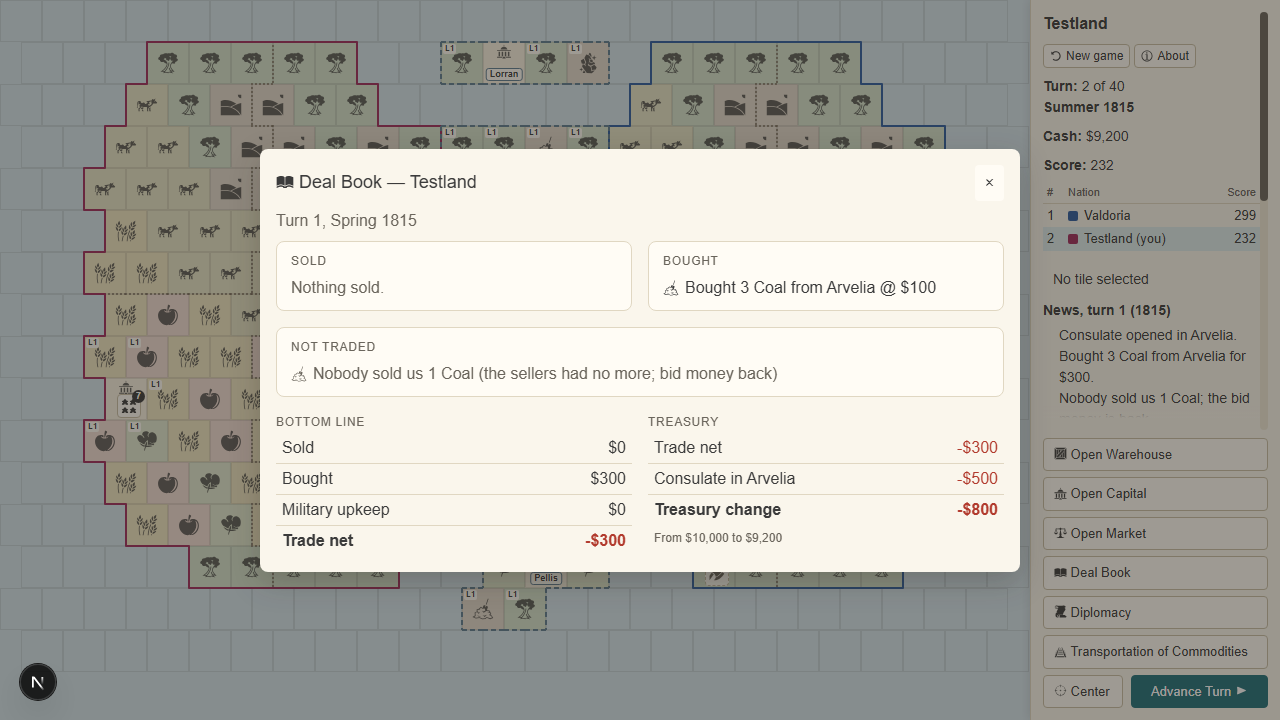
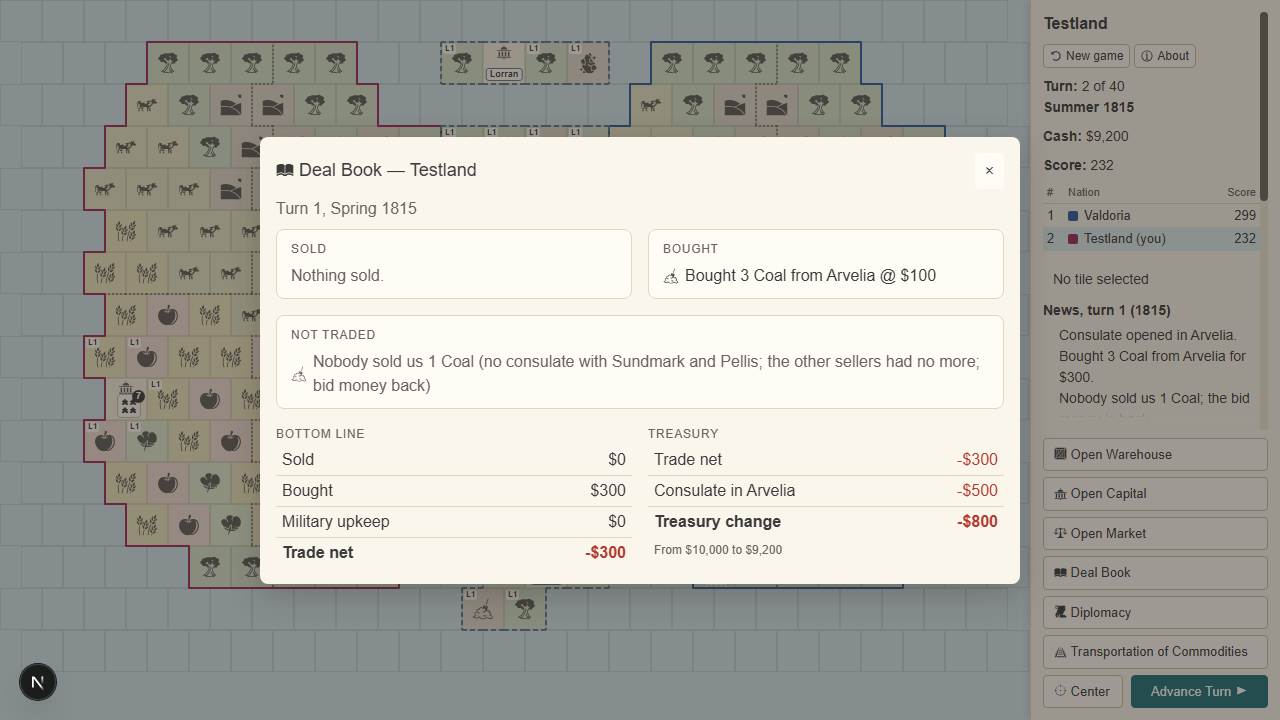
docs(m7): QA fix round review: FR-259, guard note on FR-258, card Q47 (World market stepper), journal entry with evidence, Deal Book screenshot retaken
The journal's M7 engine half and UI half entries move unchanged to docs/journal/archive-M7.md
(the journal stays under 400 lines).

Changed region(s): [[0.1875, 0.1833, 0.8125, 0.825], [0.75, 0.6111, 0.7812, 0.7333]]

diff --git a/docs/journal.md b/docs/journal.md
@@ -19,8 +19,9 @@
 - 2026-11-13 M6 Diplomacy (FR-161 to FR-181, FR-236 to FR-241) merged (PR 24, main 2a60a3b; entries archived in
   `docs/journal/archive-M6.md`). Decision card "who receives a grant" (M6 fix round decision 3) still to add.
 - 2026-11-13 M7 Nation-to-nation trade in progress on `claude/m7-trade` (worktree `imperialism-game-revival-fee36d`):
-  engine half, UI half, review fix round and QA fix round done (FR-183 to FR-198 and FR-242 to FR-258 tested; FR-182, 190,
-  192, 193, 196 replaced); not pushed. Next: the re-review of the fix rounds' delta, then the PR. Cards Q39 to Q46 on the page.
+  engine half, UI half, review fix round, QA fix round and its review's fixes done (FR-183 to FR-198 and FR-242 to FR-259
+  tested; FR-182, 190, 192, 193, 196 replaced); not pushed. Next: the PR. Cards Q39 to Q47 on the page (Q47 open: the World
+  market's greyed "−").
 
 Carried forward:
 - Deferred: river ports and the depot-on-port rule (rules 04); University fees; the power plant.
@@ -165,117 +166,11 @@ trade policies, the scripted answers and peace offers; the Diplomacy screen in t
 FR-161 to FR-181 and FR-236 to FR-241 tested; 1283 unit tests, Playwright 30 passed, 1 skipped; every v1 baseline unchanged.
 Merged as PR 24 (main 2a60a3b). Open: the decision card "who receives a grant" (review fix round decision 3).
 
-## 2026-11-13 M7 Nation-to-nation trade, engine half (FR-182 to FR-193, FR-196, FR-198)
+## 2026-11-13 M7 Nation-to-nation trade, engine half and UI half (archived)
 
-Size: L (engine-wide: the trade phase, the market state, the scripted player). One engine agent (Opus 5.5, xhigh, no
-subagents, no advisor call), started by the M7 workflow. Branch `claude/m7-trade` from main 2a60a3b (worktree
-`imperialism-game-revival-fee36d`), not pushed. The UI agent builds FR-194, FR-195 and FR-197 next, on the API below.
-
-Plan-lite:
-- Change: `market.mode` "partners" on the continent (`newGame({ market })` overrides); `tradeSystem` dispatches to
-  `market/partnerTrade.ts` (offers, demand, ranking, barriers, holds, reserve-first payment, relation points, deal events);
-  the scripted player orders consulates and caps its trade by its partner minors (`ai/partnerTrade.ts`).
-- Consumers: the Board of Trade and Deal Book screens (FR-194, FR-195), the store (`startNewGame({ market })`), M8 (upkeep
-  in the bottom line), M9 (war stops trade already).
-- Tests: FR-182 to FR-192 `engine/partnerMarket.test.ts` (55 rows, every FR example as a row); FR-192 lines
-  `ui/dealBookView.test.ts`; FR-193 `engine/scriptedTrade.test.ts`; FR-196 `engine/v2Trade40.test.ts`; FR-198 the
-  FR-157/FR-158 games in `engine/continentScore.test.ts` name `market: "world"`, assertions unchanged.
-- Verify: `npm test`, `npm run lint`, `npx tsc --noEmit`, `npm run build`.
-- Objection: decision 4 below: with FR-193 as written the computer never buys from a minor, so all deals are its goods
-  sales and the minors' raw offers only push raw prices down.
-
-API for the UI half (`@/engine` unless named): `marketModeOf(state)`; `boardOfTrade(state, nationId)` = rows in
-`BOARD_ORDER` `{ commodity, price, available, bid, offer, sellers: [{ minorId, units, favouriteId?, barrier? }], buyers }`;
-`tradeBarrier(state, nationId, countryId)` = "no-consulate" | "at-war" | "boycott" | "not-a-partner" | undefined (a
-consulate ordered this turn counts); `favouritePartner`, `partnerRanking`, `minorOffers`, `minorDemand`; `tradeCapacityOf`
-for "Holds: 3 of 4 free"; `dealBook(events, nationId)` = `{ sold, bought, bottomLine }` from the store's
-`eventLog.at(-1).events`; `dealBookView(book, nameOf)` in `components/market/dealBookView.ts` = the ledger lines and
-`empty`; `eventText` reads `offer-missed`, `offer-unsold` and a deal's counterparty.
-
-Decisions (defaults, nobody to ask):
-1. A "world" market has no `mode` key (`marketModeOf` reads it as "world"), so the v1 market object and FR-060's
-   assertion stay as they are. Objection: FR-182's wording says `state.market.mode` is "world".
-2. FR-157, FR-174 and FR-181 continent tests name `market: "world"` (setup lines only): their subject is the M5 seams or
-   peace, and in "partners" the scripted player also orders consulates. Objection: FR-157 no longer runs the partners
-   continent with nation 1 idle; FR-196 runs it with both nations scripted.
-3. FR-192: the engine's `dealBook` returns data; the words ("Sold 1 Clothing to Arvelia @ $810") come from
-   `dealBookView`, beside `commodityName`. Objection: FR-192 names `dealBook` as returning the lines.
-4. FR-193 (b) kept as written: FR-128 bids lumber and steel, no minor offers either, so the computer never bids in
-   "partners". Measured effect: goods prices climb about 3% a turn (24 units of minor demand unfilled each turn, clothing
-   952 on turn 3 to 1,902 on turn 29) toward the 250% ceiling, raw prices fall toward the 50% floor. Card for the
-   orchestrator: let the computer bid for the raw coal, iron ore and timber its mills use, or damp FR-190.
-5. FR-186: an offer reaches each Great Power as one sheet (Imp1's offer sheet): it takes what its bid, holds and money
-   allow, the rest passes on, and `offer-missed` counts min(units left, its bid) minus what it took.
-6. FR-189: a bid's unused reserve is refunded right after its commodity settles; sales earlier in the phase pay later
-   purchases. FR-191: a Great Power pair gains while either holds an embassy with the other.
-7. FR-193 (c): "what those minors still demand" is their whole demand this turn (the rival's offers are not read).
-
-| Claim | Command | Result (quoted) |
-|---|---|---|
-| Red (API stubs, tests first) | `npx vitest run tests/engine/partnerMarket.test.ts tests/engine/scriptedTrade.test.ts tests/engine/v2Trade40.test.ts tests/ui/dealBookView.test.ts` | `Test Files 4 failed (4)`, `Tests 61 failed \| 15 passed (76)` (e.g. `expected undefined to be 'partners'`, `expected [ {}, {}, {}, {} ] to deeply equal ...`; the 15 are guards: v1 world trade, order-time check, frozen input, determinism) |
-| FR-182 to FR-193, FR-196 green | same command | `Test Files 4 passed (4)`, `Tests 76 passed (76)` |
-| First commit (0a1c613) alone | `npm test`, `npx tsc --noEmit` with the FR-193 files set aside | `Test Files 77 passed (77)`, `Tests 1342 passed (1342)`; exit 0 |
-| Unit tests | `npm test` | `Test Files 79 passed (79)`, `Tests 1359 passed (1359)` (+76 on 1283), 0 act warnings |
-| FR-198, FR-159 v1 baselines | `npm test` console | `FR-125 seed 1: t15 616/390 (1.58) ... t40 1493/650 (2.30)`, `FR-157 nation 2 score at turn 40: [[1,1493],[2,1496],[3,1490],[4,1476]]`, as in M6 |
-| FR-196 v2 trade baseline | `npm test` console | `"consulateBy":{"nation-1":1,"nation-2":1},"minorDeals":{"nation-1":21,"nation-2":21}` on every seed; treasuries `17674`, `17021`, `16607`, `19737` (both nations) |
-| Lint | `npm run lint` | `✖ 3 problems (0 errors, 3 warnings)` (the three of M6) |
-| Types | `npx tsc --noEmit` | exit 0, no output |
-| Build | `npm run build` | `✓ Compiled successfully in 3.5s`, `✓ Generating static pages (4/4)` |
-
-Not run here: Playwright. For the UI half: `e2e/market-and-game-over.spec.ts` (FR-078) sells 1 lumber on the default
-(continent) game and expects "Sold 1 Lumber for $300."; in "partners" nobody buys lumber, so that spec, and the market
-dialog names in `e2e/m4-1.spec.ts`, `e2e/look.spec.ts` and `e2e/m6-dialogs.spec.ts`, change with FR-194.
-
-## 2026-11-13 M7 Nation-to-nation trade, UI half (FR-194, FR-195, FR-197)
-
-Size: M (screens on the engine half's API). One UI agent (Opus 5.5, xhigh, no subagents, no advisor call), started by the
-M7 workflow. Branch `claude/m7-trade` (worktree `imperialism-game-revival-fee36d`), not pushed.
-
-Plan-lite:
-- Change: in "partners" `MarketModal` renders the Board of Trade (`components/market/BoardOfTrade.tsx` on `boardView.ts`);
-  a "Deal Book" HUD button opens `DealBookModal.tsx` (store flag `isDealBookOpen`, reset by New game); `Stepper.tsx` is the
-  "− n +" of both market dialogs; icon `dealBook` (GiOpenBook). The v1 World market is the same component body as before.
-- Consumers: the player; M8 fills Military upkeep in the Deal Book's bottom line (`dealBook` gives 0 now).
-- Tests: FR-194 `tests/ui/boardOfTrade.test.tsx` (17 rows: name, order, Price/Available/Bid/Offer, Sellers and Buyers with
-  favourite and marks, the FR example "Arvelia 3, favours Valdoria", a consulate ordered this turn lifts the mark, holds,
-  bids, a row with a bid has no offer control, the 4-bid refusal, "world" unchanged); FR-195 `tests/ui/dealBook.test.tsx`
-  (7 rows, one of them FR-197's flow in the store); FR-197 `e2e/m7-trade.spec.ts` (with the FR-194 fit at 1280x720);
-  FR-236 `tests/ui/dialogs.test.tsx` lists both new dialogs; FR-022 scan covers the three screens.
-- Verify: `npm test`, `npm run lint`, `npx tsc --noEmit`, `npm run build`, `PORT=3160 npx playwright test --workers=1`.
-- Objection: decision 3 (FR-078's e2e reads the sale's income from the news, no fixed price any more).
-
-Decisions (defaults, nobody to ask):
-1. Dialog names follow FR-236's title convention: "Board of Trade — Testland", "Deal Book — Testland" (Playwright matches
-   "Board of Trade" as a part of the name). Objection: FR-194/195 say "named Board of Trade"; an exact match needs the suffix.
-2. The FR-197 spec is `e2e/m7-trade.spec.ts`, the name FR-197 gives (the workflow task said `e2e/m7.spec.ts`).
-3. FR-078's e2e (`market-and-game-over.spec.ts`): in "partners" nobody buys lumber and a minor buys only goods from a Great
-   Power with a consulate there, so it now orders a consulate with Pellis and 1 furniture on turn 1 (Valdoria reaches Pellis
-   only on turn 4), offers the furniture on turn 2 and checks cash = before + the income in "Sold 1 Furniture to Pellis for
-   $…". The 40-turn game-over test is unchanged. `look`, `m4-1` and `m6-dialogs` only change the dialog name (and
-   `m6-dialogs` adds the Deal Book to its FR-236 loop).
-4. "A row with a bid has no offer": the other side's stepper is not shown (the engine refuses it anyway). The 4-bid limit and
-   other refusals show as in v1, in the dialog's alert ("Purchase refused: over the limit."). Objection: M6's pattern disables
-   a refused control with its reason; here a fifth bid can still be pressed.
-5. Layout: a fixed frame (at most the window less 16 px); on a new game all 17 rows show at 1280x720 (rows 27 px, chips on two
-   lines where 3 or 4 minors trade); when it grows (a refusal, more chips) only the board scrolls, under a sticky head. The
-   margin at 720 px is about 10 px. Barrier chips are outlined (dashed) with the reason in words in the danger colour.
-6. The Deal Book shows "No deals last turn." also before the first End Turn; it names the turn it shows ("Turn 1, Spring
-   1815"); an empty page says "Nothing sold." / "Nothing bought."; a negative Net is red and reads "-$200".
-7. The Deal Book is a full-width HUD action under Open Market; the HUD's scroll area is about 36 px shorter (FR-235 holds).
-
-| Claim | Command | Result (quoted) |
-|---|---|---|
-| Red (stubs for `boardView` and `DealBookModal`) | `npx vitest run tests/ui/boardOfTrade.test.tsx tests/ui/dealBook.test.tsx tests/ui/dialogs.test.tsx tests/ui/icons.test.tsx tests/ui/uiWritesOnlyOrders.test.ts` | `Test Files 5 failed (5)`, `Tests 36 failed \| 50 passed (86)` (`Unable to find an accessible element with the role "dialog" and name "Board of Trade — Testland"` x20, `... "Deal Book — Testland"` x5, `... name /^Deal Book$/` x5) |
-| FR-194, FR-195 green | same files plus `marketDialog`, `commodityIcons` | `Test Files 7 passed (7)`, `Tests 105 passed (105)` |
-| Unit tests | `npm test` | `Test Files 81 passed (81)`, `Tests 1389 passed (1389)` (+30 on 1359), no act warning |
-| v1 and v2 baselines unchanged | `npm test` console | `FR-125 seed 1: t15 616/390 (1.58) ... t40 1493/650 (2.30)`, `FR-157 nation 2 score at turn 40: [[1,1493],[2,1496],[3,1490],[4,1476]]`, FR-196 `"minorDeals":{"nation-1":21,"nation-2":21}`, treasuries 17674, 17021, 16607, 19737 |
-| FR-197, FR-194 fit, FR-078, all e2e | `PORT=3160 npx playwright test --workers=1 --reporter=line` | `32 passed (1.5m)`, `1 skipped` (the old skip) |
-| Lint | `npm run lint` | `✖ 3 problems (0 errors, 3 warnings)` (the three of M6) |
-| Types | `npx tsc --noEmit` | exit 0, no output |
-| Build | `npm run build` | `✓ Compiled successfully in 3.3s`, `✓ Generating static pages (4/4)` |
-
-In the app: New game, Open Market (the Board of Trade), Diplomacy → Arvelia → Consulate, the coal row's "Arvelia 3, favours
-Testland" loses "(no consulate)"; bid 2 coal, Advance Turn, then the HUD's Deal Book: "Bought 2 Coal from Arvelia @ $100".
+Entries in `docs/journal/archive-M7.md`: the engine half (FR-182 to FR-193, FR-196, FR-198: the partners trade phase, the
+scripted player, the API for the screens, 7 decisions) and the UI half (FR-194, FR-195, FR-197: the Board of Trade, the Deal
+Book, 7 decisions); 1389 unit tests, Playwright 32 passed, 1 skipped. The fix rounds below stay here until M7 is merged.
 
 ## 2026-11-13 M7 Nation-to-nation trade, review fix round (FR-242 to FR-250)
 
@@ -394,3 +289,42 @@ Decisions (defaults, nobody to ask):
 Carried: the news lines carry no cause; "Other" lumps building, prospecting, development, training and gold; FR-246's carry
 holds for FR-252. In the app: New game, Open Market: each grey "+" says why; consulate with Arvelia, bid 4 coal, End Turn: the
 Deal Book's Not traded "Nobody sold us 1 Coal (the sellers had no more; bid money back)", Treasury "Consulate in Arvelia -$500".
+
+### Review of the QA fix round (FR-259)
+
+Size: S. One fix agent (Opus 5.5, xhigh, no subagents, no advisor call), M7 workflow; not pushed. The review (one reviewer) confirmed
+items 1 to 8 and gave 3 minor findings.
+
+| Finding | What changed | Test |
+|---|---|---|
+| F1 "the sellers had no more" while Sundmark and Pellis (no consulate) still had 1 coal each | FR-259: on "served-first" and "used-up" the cause also carries `barred`, the barred counterparties that still had units nobody took; the Deal Book names them first | partnerMarket (2 rows now check `barred`), partnerOrders (2 changed, 2 new), dealBookView (1) |
+| F2 the FR-258 guard missed TileInfoPanel's three hand-made "$" before 4d62a0b | the guard reads each file's syntax tree (`tests/ui/dollarScan.ts`, the `typescript` package): "$" before a template's or JSX's interpolation, "$" + …, toLocaleString, NumberFormat | money (1 new: 10 lines it must find, the 3 TileInfoPanel lines verbatim; 6 it must not) |
+| F3 the World market keeps a greyed "−" at 0 with no reason | none: FR-257 scopes QA item 7 to the Board and FR-074 (with its test) pins the v1 stepper; card Q47 asks | none |
+
+Decisions (defaults, nobody to ask):
+1. F1: a barred counterparty is named only while it still had units nobody took; one whose units all went to a rival is not (a
+   consulate there would not have served us).
+2. F1: the barred part first, then "the other sellers had no more", instead of the review's "Arvelia had no more; no consulate with
+   …": the cause needs no list of the open sellers, and with nothing barred the line stays "the sellers had no more".
+3. F2: a syntax-tree scan, not a longer regex: a regex cannot tell JSX's "Cost: ${cost}" from a template's "${…}".
+4. F3: not changed here: it changes a v1 requirement (FR-074) and its test, so Q47 asks first (one line in MarketModal.tsx).
+
+Carried: the Board lets a bid exceed the units open to the nation (FR-252 passes while one seller is open: 4 coal with only
+Arvelia's 3); the reason shows only in the Deal Book after End Turn. A line "3 units open to us" would take row height that the
+FR-194 fit at 1280x720 does not have. F3: card Q47.
+
+| Claim | Command | Result (quoted) |
+|---|---|---|
+| Red F1 | `npx vitest run tests/engine/partnerMarket.test.ts tests/engine/partnerOrders.test.ts tests/ui/dealBookView.test.ts` | `Test Files 3 failed (3)`, `Tests 7 failed \| 94 passed (101)` (e.g. `expected 'the sellers had no more' to be 'no consulate with Sundmark and Pellis…'`) |
+| Red F2 | `npx vitest run tests/ui/money.test.tsx`, the scan stubbed with the old regex | `Tests 1 failed \| 3 passed (4)`: the line ``const title = `Cost: $${PROSPECT_COST}`;`` gave `found: false` |
+| F2 on the source before 4d62a0b | `.gate/f2-probe` on `git show 4d62a0b~1:src/app/components/TileInfoPanel.tsx` | `old regex: false AST scan: ["81: template \"$${…}\"","101: …","105: …"]` |
+| Unit tests | `npm test` | `Test Files 83 passed (83)`, `Tests 1458 passed (1458)` (+4 on 1454) |
+| Baselines unchanged | `npm test` console | `FR-125 seed 1: … t40 1493/650 (2.30)`, `FR-157 … [[1,1493],[2,1496],[3,1490],[4,1476]]`, FR-247 seed 1 `"minorDeals":[59,53]` |
+| Lint | `npm run lint` | `✖ 3 problems (0 errors, 3 warnings)` (the three of M6) |
+| Types | `npx tsc --noEmit` | exit 0, no output |
+| Build | `npm run build` | `✓ Compiled successfully in 5.2s`, `✓ Generating static pages (4/4)` |
+| All e2e | `PORT=3160 npx playwright test --workers=1 --reporter=line` | `32 passed (1.8m)`, `1 skipped` (the old skip) |
+| Screenshot retaken | `node .gate/qa-shots-f1.mjs` (the QA round's script; the board shot kept) | `m7-qa-fix-deal-book.png`: `Nobody sold us 1 Coal (no consulate with Sundmark and Pellis; the other sellers had no more; bid money back)`, `errors []` |
+
+In the app: New game, Diplomacy → Arvelia → Consulate, Open Market, bid 4 coal, End Turn, Deal Book: Not traded reads "Nobody sold
+us 1 Coal (no consulate with Sundmark and Pellis; the other sellers had no more; bid money back)".

diff --git a/docs/journal/archive-M7.md b/docs/journal/archive-M7.md
@@ -1,0 +1,117 @@
+# Journal archive: M7 Nation-to-nation trade
+
+Moved from `docs/journal.md` on 2026-11-13 during M7 (FLOW: the journal stays under 400 lines; the review of the QA
+fix round needed room before the milestone ends). The two finished entries, the engine half and the UI half, are
+unchanged; the review fix round, the QA fix round and what follows stay in the journal until M7 is merged.
+
+## 2026-11-13 M7 Nation-to-nation trade, engine half (FR-182 to FR-193, FR-196, FR-198)
+
+Size: L (engine-wide: the trade phase, the market state, the scripted player). One engine agent (Opus 5.5, xhigh, no
+subagents, no advisor call), started by the M7 workflow. Branch `claude/m7-trade` from main 2a60a3b (worktree
+`imperialism-game-revival-fee36d`), not pushed. The UI agent builds FR-194, FR-195 and FR-197 next, on the API below.
+
+Plan-lite:
+- Change: `market.mode` "partners" on the continent (`newGame({ market })` overrides); `tradeSystem` dispatches to
+  `market/partnerTrade.ts` (offers, demand, ranking, barriers, holds, reserve-first payment, relation points, deal events);
+  the scripted player orders consulates and caps its trade by its partner minors (`ai/partnerTrade.ts`).
+- Consumers: the Board of Trade and Deal Book screens (FR-194, FR-195), the store (`startNewGame({ market })`), M8 (upkeep
+  in the bottom line), M9 (war stops trade already).
+- Tests: FR-182 to FR-192 `engine/partnerMarket.test.ts` (55 rows, every FR example as a row); FR-192 lines
+  `ui/dealBookView.test.ts`; FR-193 `engine/scriptedTrade.test.ts`; FR-196 `engine/v2Trade40.test.ts`; FR-198 the
+  FR-157/FR-158 games in `engine/continentScore.test.ts` name `market: "world"`, assertions unchanged.
+- Verify: `npm test`, `npm run lint`, `npx tsc --noEmit`, `npm run build`.
+- Objection: decision 4 below: with FR-193 as written the computer never buys from a minor, so all deals are its goods
+  sales and the minors' raw offers only push raw prices down.
+
+API for the UI half (`@/engine` unless named): `marketModeOf(state)`; `boardOfTrade(state, nationId)` = rows in
+`BOARD_ORDER` `{ commodity, price, available, bid, offer, sellers: [{ minorId, units, favouriteId?, barrier? }], buyers }`;
+`tradeBarrier(state, nationId, countryId)` = "no-consulate" | "at-war" | "boycott" | "not-a-partner" | undefined (a
+consulate ordered this turn counts); `favouritePartner`, `partnerRanking`, `minorOffers`, `minorDemand`; `tradeCapacityOf`
+for "Holds: 3 of 4 free"; `dealBook(events, nationId)` = `{ sold, bought, bottomLine }` from the store's
+`eventLog.at(-1).events`; `dealBookView(book, nameOf)` in `components/market/dealBookView.ts` = the ledger lines and
+`empty`; `eventText` reads `offer-missed`, `offer-unsold` and a deal's counterparty.
+
+Decisions (defaults, nobody to ask):
+1. A "world" market has no `mode` key (`marketModeOf` reads it as "world"), so the v1 market object and FR-060's
+   assertion stay as they are. Objection: FR-182's wording says `state.market.mode` is "world".
+2. FR-157, FR-174 and FR-181 continent tests name `market: "world"` (setup lines only): their subject is the M5 seams or
+   peace, and in "partners" the scripted player also orders consulates. Objection: FR-157 no longer runs the partners
+   continent with nation 1 idle; FR-196 runs it with both nations scripted.
+3. FR-192: the engine's `dealBook` returns data; the words ("Sold 1 Clothing to Arvelia @ $810") come from
+   `dealBookView`, beside `commodityName`. Objection: FR-192 names `dealBook` as returning the lines.
+4. FR-193 (b) kept as written: FR-128 bids lumber and steel, no minor offers either, so the computer never bids in
+   "partners". Measured effect: goods prices climb about 3% a turn (24 units of minor demand unfilled each turn, clothing
+   952 on turn 3 to 1,902 on turn 29) toward the 250% ceiling, raw prices fall toward the 50% floor. Card for the
+   orchestrator: let the computer bid for the raw coal, iron ore and timber its mills use, or damp FR-190.
+5. FR-186: an offer reaches each Great Power as one sheet (Imp1's offer sheet): it takes what its bid, holds and money
+   allow, the rest passes on, and `offer-missed` counts min(units left, its bid) minus what it took.
+6. FR-189: a bid's unused reserve is refunded right after its commodity settles; sales earlier in the phase pay later
+   purchases. FR-191: a Great Power pair gains while either holds an embassy with the other.
+7. FR-193 (c): "what those minors still demand" is their whole demand this turn (the rival's offers are not read).
+
+| Claim | Command | Result (quoted) |
+|---|---|---|
+| Red (API stubs, tests first) | `npx vitest run tests/engine/partnerMarket.test.ts tests/engine/scriptedTrade.test.ts tests/engine/v2Trade40.test.ts tests/ui/dealBookView.test.ts` | `Test Files 4 failed (4)`, `Tests 61 failed \| 15 passed (76)` (e.g. `expected undefined to be 'partners'`, `expected [ {}, {}, {}, {} ] to deeply equal ...`; the 15 are guards: v1 world trade, order-time check, frozen input, determinism) |
+| FR-182 to FR-193, FR-196 green | same command | `Test Files 4 passed (4)`, `Tests 76 passed (76)` |
+| First commit (0a1c613) alone | `npm test`, `npx tsc --noEmit` with the FR-193 files set aside | `Test Files 77 passed (77)`, `Tests 1342 passed (1342)`; exit 0 |
+| Unit tests | `npm test` | `Test Files 79 passed (79)`, `Tests 1359 passed (1359)` (+76 on 1283), 0 act warnings |
+| FR-198, FR-159 v1 baselines | `npm test` console | `FR-125 seed 1: t15 616/390 (1.58) ... t40 1493/650 (2.30)`, `FR-157 nation 2 score at turn 40: [[1,1493],[2,1496],[3,1490],[4,1476]]`, as in M6 |
+| FR-196 v2 trade baseline | `npm test` console | `"consulateBy":{"nation-1":1,"nation-2":1},"minorDeals":{"nation-1":21,"nation-2":21}` on every seed; treasuries `17674`, `17021`, `16607`, `19737` (both nations) |
+| Lint | `npm run lint` | `✖ 3 problems (0 errors, 3 warnings)` (the three of M6) |
+| Types | `npx tsc --noEmit` | exit 0, no output |
+| Build | `npm run build` | `✓ Compiled successfully in 3.5s`, `✓ Generating static pages (4/4)` |
+
+Not run here: Playwright. For the UI half: `e2e/market-and-game-over.spec.ts` (FR-078) sells 1 lumber on the default
+(continent) game and expects "Sold 1 Lumber for $300."; in "partners" nobody buys lumber, so that spec, and the market
+dialog names in `e2e/m4-1.spec.ts`, `e2e/look.spec.ts` and `e2e/m6-dialogs.spec.ts`, change with FR-194.
+
+## 2026-11-13 M7 Nation-to-nation trade, UI half (FR-194, FR-195, FR-197)
+
+Size: M (screens on the engine half's API). One UI agent (Opus 5.5, xhigh, no subagents, no advisor call), started by the
+M7 workflow. Branch `claude/m7-trade` (worktree `imperialism-game-revival-fee36d`), not pushed.
+
+Plan-lite:
+- Change: in "partners" `MarketModal` renders the Board of Trade (`components/market/BoardOfTrade.tsx` on `boardView.ts`);
+  a "Deal Book" HUD button opens `DealBookModal.tsx` (store flag `isDealBookOpen`, reset by New game); `Stepper.tsx` is the
+  "− n +" of both market dialogs; icon `dealBook` (GiOpenBook). The v1 World market is the same component body as before.
+- Consumers: the player; M8 fills Military upkeep in the Deal Book's bottom line (`dealBook` gives 0 now).
+- Tests: FR-194 `tests/ui/boardOfTrade.test.tsx` (17 rows: name, order, Price/Available/Bid/Offer, Sellers and Buyers with
+  favourite and marks, the FR example "Arvelia 3, favours Valdoria", a consulate ordered this turn lifts the mark, holds,
+  bids, a row with a bid has no offer control, the 4-bid refusal, "world" unchanged); FR-195 `tests/ui/dealBook.test.tsx`
+  (7 rows, one of them FR-197's flow in the store); FR-197 `e2e/m7-trade.spec.ts` (with the FR-194 fit at 1280x720);
+  FR-236 `tests/ui/dialogs.test.tsx` lists both new dialogs; FR-022 scan covers the three screens.
+- Verify: `npm test`, `npm run lint`, `npx tsc --noEmit`, `npm run build`, `PORT=3160 npx playwright test --workers=1`.
+- Objection: decision 3 (FR-078's e2e reads the sale's income from the news, no fixed price any more).
+
+Decisions (defaults, nobody to ask):
+1. Dialog names follow FR-236's title convention: "Board of Trade — Testland", "Deal Book — Testland" (Playwright matches
+   "Board of Trade" as a part of the name). Objection: FR-194/195 say "named Board of Trade"; an exact match needs the suffix.
+2. The FR-197 spec is `e2e/m7-trade.spec.ts`, the name FR-197 gives (the workflow task said `e2e/m7.spec.ts`).
+3. FR-078's e2e (`market-and-game-over.spec.ts`): in "partners" nobody buys lumber and a minor buys only goods from a Great
+   Power with a consulate there, so it now orders a consulate with Pellis and 1 furniture on turn 1 (Valdoria reaches Pellis
+   only on turn 4), offers the furniture on turn 2 and checks cash = before + the income in "Sold 1 Furniture to Pellis for
+   $…". The 40-turn game-over test is unchanged. `look`, `m4-1` and `m6-dialogs` only change the dialog name (and
+   `m6-dialogs` adds the Deal Book to its FR-236 loop).
+4. "A row with a bid has no offer": the other side's stepper is not shown (the engine refuses it anyway). The 4-bid limit and
+   other refusals show as in v1, in the dialog's alert ("Purchase refused: over the limit."). Objection: M6's pattern disables
+   a refused control with its reason; here a fifth bid can still be pressed.
+5. Layout: a fixed frame (at most the window less 16 px); on a new game all 17 rows show at 1280x720 (rows 27 px, chips on two
+   lines where 3 or 4 minors trade); when it grows (a refusal, more chips) only the board scrolls, under a sticky head. The
+   margin at 720 px is about 10 px. Barrier chips are outlined (dashed) with the reason in words in the danger colour.
+6. The Deal Book shows "No deals last turn." also before the first End Turn; it names the turn it shows ("Turn 1, Spring
+   1815"); an empty page says "Nothing sold." / "Nothing bought."; a negative Net is red and reads "-$200".
+7. The Deal Book is a full-width HUD action under Open Market; the HUD's scroll area is about 36 px shorter (FR-235 holds).
+
+| Claim | Command | Result (quoted) |
+|---|---|---|
+| Red (stubs for `boardView` and `DealBookModal`) | `npx vitest run tests/ui/boardOfTrade.test.tsx tests/ui/dealBook.test.tsx tests/ui/dialogs.test.tsx tests/ui/icons.test.tsx tests/ui/uiWritesOnlyOrders.test.ts` | `Test Files 5 failed (5)`, `Tests 36 failed \| 50 passed (86)` (`Unable to find an accessible element with the role "dialog" and name "Board of Trade — Testland"` x20, `... "Deal Book — Testland"` x5, `... name /^Deal Book$/` x5) |
+| FR-194, FR-195 green | same files plus `marketDialog`, `commodityIcons` | `Test Files 7 passed (7)`, `Tests 105 passed (105)` |
+| Unit tests | `npm test` | `Test Files 81 passed (81)`, `Tests 1389 passed (1389)` (+30 on 1359), no act warning |
+| v1 and v2 baselines unchanged | `npm test` console | `FR-125 seed 1: t15 616/390 (1.58) ... t40 1493/650 (2.30)`, `FR-157 nation 2 score at turn 40: [[1,1493],[2,1496],[3,1490],[4,1476]]`, FR-196 `"minorDeals":{"nation-1":21,"nation-2":21}`, treasuries 17674, 17021, 16607, 19737 |
+| FR-197, FR-194 fit, FR-078, all e2e | `PORT=3160 npx playwright test --workers=1 --reporter=line` | `32 passed (1.5m)`, `1 skipped` (the old skip) |
+| Lint | `npm run lint` | `✖ 3 problems (0 errors, 3 warnings)` (the three of M6) |
+| Types | `npx tsc --noEmit` | exit 0, no output |
+| Build | `npm run build` | `✓ Compiled successfully in 3.3s`, `✓ Generating static pages (4/4)` |
+
+In the app: New game, Open Market (the Board of Trade), Diplomacy → Arvelia → Consulate, the coal row's "Arvelia 3, favours
+Testland" loses "(no consulate)"; bid 2 coal, Advance Turn, then the HUD's Deal Book: "Bought 2 Coal from Arvelia @ $100".

diff --git a/docs/requirements.md b/docs/requirements.md
@@ -470,8 +470,9 @@ QA screenshots: `docs/journal/m7-qa-board.png`, `m7-qa-deal-book.png`, `m7-qa-de
 | FR-254 | An empty "Minor nations" cell (QA item 4): a row no minor sells or buys SHALL read "No minor trades this" in its "Minor nations" cell. Tests: tests/ui/boardOfTrade.test.tsx, e2e/m7-trade.spec.ts. | tested (tests/ui/boardOfTrade.test.tsx, e2e/m7-trade.spec.ts) |
 | FR-255 | Not traded, with its cause (QA item 5; replaces FR-195's two lists and FR-244's "Sold = the sales, then the units not sold; Bought = the purchases, then the missed offers, then the bids not filled"): `dealBook` SHALL return `notTraded` = the units not sold, then the missed offers, then the bid units nobody filled; Sold and Bought hold only deals. `offer-unsold` and `bid-unfilled` SHALL carry `cause` when known: "nobody" (no country offered or wanted it), "barred" (every one that did is barred, each with its barrier), "served-first" (the open ones dealt with these other Great Powers first), "used-up" (they had no more, or wanted no more), "no-hold" (an offer: a buyer still wanted it, no hold was free); none while an open Great Power still bids for the units (its own `offer-missed` says why). The Deal Book SHALL show a third list "Not traded" (only when it has lines), its lines "2 Canned Food not sold (no buyer), back in the warehouse", "Nobody sold us 1 Timber (no consulate with Lorran; bid money back)", "Valdoria was served first", "the sellers had no more", "the buyers wanted no more", "no free hold", "at war with Arvelia; no consulate with Lorran and Pellis"; a missed offer keeps its line and cause ("Arvelia offered to sell us 1 Coal (no free hold)"). The news lines stay as in FR-244. Tests: tests/engine/partnerOrders.test.ts, tests/engine/partnerMarket.test.ts, tests/ui/dealBookView.test.ts, tests/ui/dealBook.test.tsx. | tested (tests/engine/partnerOrders.test.ts, tests/engine/partnerMarket.test.ts, tests/ui/dealBookView.test.ts, tests/ui/dealBook.test.tsx) |
 | FR-256 | Trade net and the treasury change (QA item 6; replaces FR-244's bottom line label "Net"): the bottom line SHALL end in "Trade net" (Sold - Bought - Military upkeep); beside it a table "Treasury" SHALL list the Trade net, each diplomacy cost of the turn ("Consulate in Arvelia -$500", "Embassy in Valdoria -$5,000", "Grant to Pellis -$1,000": consulates and embassies opened, `overture-done` at their FR-161 cost, and grants paid, `grant-paid`), "Other (building, workers, gold, gems)" when the rest is not 0, and "Treasury change", with "From $10,000 to $9,300" under it, so the lines add up to the change. The store's turn report SHALL hold each nation's treasury when the turn began (before the human's first order of it; a computer nation's when End Turn was pressed) and after it (`treasuries`); `dealBook(events, nationId, treasury)` returns the change and the rest. A turn with only diplomacy says "No deals last turn." and shows the Treasury table. Tests: tests/engine/partnerOrders.test.ts, tests/ui/dealBookView.test.ts, tests/ui/dealBook.test.tsx, tests/store/gameStore.test.ts, e2e/m7-trade.spec.ts. | tested (tests/engine/partnerOrders.test.ts, tests/ui/dealBookView.test.ts, tests/ui/dealBook.test.tsx, tests/store/gameStore.test.ts, e2e/m7-trade.spec.ts); option 2 of the QA item taken: development, prospecting, building, training and gold are not trade, so "Net" could not equal the treasury change |
-| FR-257 | Every disabled control says why (QA item 7; replaces FR-248's "with its reason as its title"): on the Board of Trade a disabled "+" SHALL show its reason as visible text beside its stepper (FR-248's limits, FR-252, FR-253) and have it as its accessible description (its title stays); at 0 there SHALL be no "−" button, only its place, so no "−" is disabled without a reason; above 0 "−" is enabled (lowering is always allowed). At 1280x720 all 17 rows of a new game, with these lines, still show without scrolling (FR-194). The World market keeps its v1 stepper. Tests: tests/ui/boardOfTrade.test.tsx, e2e/m7-trade.spec.ts. | tested (tests/ui/boardOfTrade.test.tsx: all 34 disabled "+" of a new game, e2e/m7-trade.spec.ts) |
-| FR-258 | One money format (QA item 8): the HUD SHALL show "Cash: $10,000", formatted by `money` (components/gameText.ts), the format of the Board of Trade, the Deal Book, Diplomacy and the capital: thousands separators and a loss's minus sign in front ("-$1,369"); no other source file formats dollars. Tests: tests/ui/money.test.tsx, e2e/play-turns.spec.ts, e2e/market-and-game-over.spec.ts. | tested (tests/ui/money.test.tsx, e2e/play-turns.spec.ts, e2e/market-and-game-over.spec.ts, e2e/m7-trade.spec.ts) |
+| FR-257 | Every disabled control says why (QA item 7; replaces FR-248's "with its reason as its title"): on the Board of Trade a disabled "+" SHALL show its reason as visible text beside its stepper (FR-248's limits, FR-252, FR-253) and have it as its accessible description (its title stays); at 0 there SHALL be no "−" button, only its place, so no "−" is disabled without a reason; above 0 "−" is enabled (lowering is always allowed). At 1280x720 all 17 rows of a new game, with these lines, still show without scrolling (FR-194). The World market keeps its v1 stepper. Tests: tests/ui/boardOfTrade.test.tsx, e2e/m7-trade.spec.ts. | tested (tests/ui/boardOfTrade.test.tsx: all 34 disabled "+" of a new game, e2e/m7-trade.spec.ts); the World market's disabled "−" at 0 (FR-074) is decision card Q47 (review F3 of the QA fix round), v1 kept meanwhile |
+| FR-258 | One money format (QA item 8): the HUD SHALL show "Cash: $10,000", formatted by `money` (components/gameText.ts), the format of the Board of Trade, the Deal Book, Diplomacy and the capital: thousands separators and a loss's minus sign in front ("-$1,369"); no other source file formats dollars. Tests: tests/ui/money.test.tsx, e2e/play-turns.spec.ts, e2e/market-and-game-over.spec.ts. | tested (tests/ui/money.test.tsx, e2e/play-turns.spec.ts, e2e/market-and-game-over.spec.ts, e2e/m7-trade.spec.ts); since review F2 of the QA fix round the guard reads each file's syntax tree (tests/ui/dollarScan.ts): a "$" before a template's or JSX's interpolation anywhere, a "$" string joined with +, toLocaleString, NumberFormat; it finds the three lines of TileInfoPanel.tsx before 4d62a0b that the first guard missed |
+| FR-259 | The barred counterparties beside the other causes (review F1 of the QA fix round; extends FR-255): WHEN units of a bid or an offer are "served-first" or "used-up" AND some counterparties on the other side were barred to the nation and still had units nobody took (a minor's offer or demand left, a Great Power's offer or bid left) THEN the cause SHALL also carry them as `barred`, each with its barrier, in FR-255's order (the minors in id order, then the Great Powers); a barred one with nothing left is not named (a consulate there would not have served the nation). The Deal Book SHALL name them first: "Nobody sold us 1 Coal (no consulate with Sundmark and Pellis; the other sellers had no more; bid money back)", "no consulate with Sundmark, Lorran and Pellis; Valdoria was served first", "no consulate with Lorran; at war with Valdoria; the other buyers wanted no more". Tests: tests/engine/partnerOrders.test.ts, tests/engine/partnerMarket.test.ts, tests/ui/dealBookView.test.ts. | tested (tests/engine/partnerOrders.test.ts, tests/engine/partnerMarket.test.ts, tests/ui/dealBookView.test.ts) |
 
 ## M8 Armies
 
